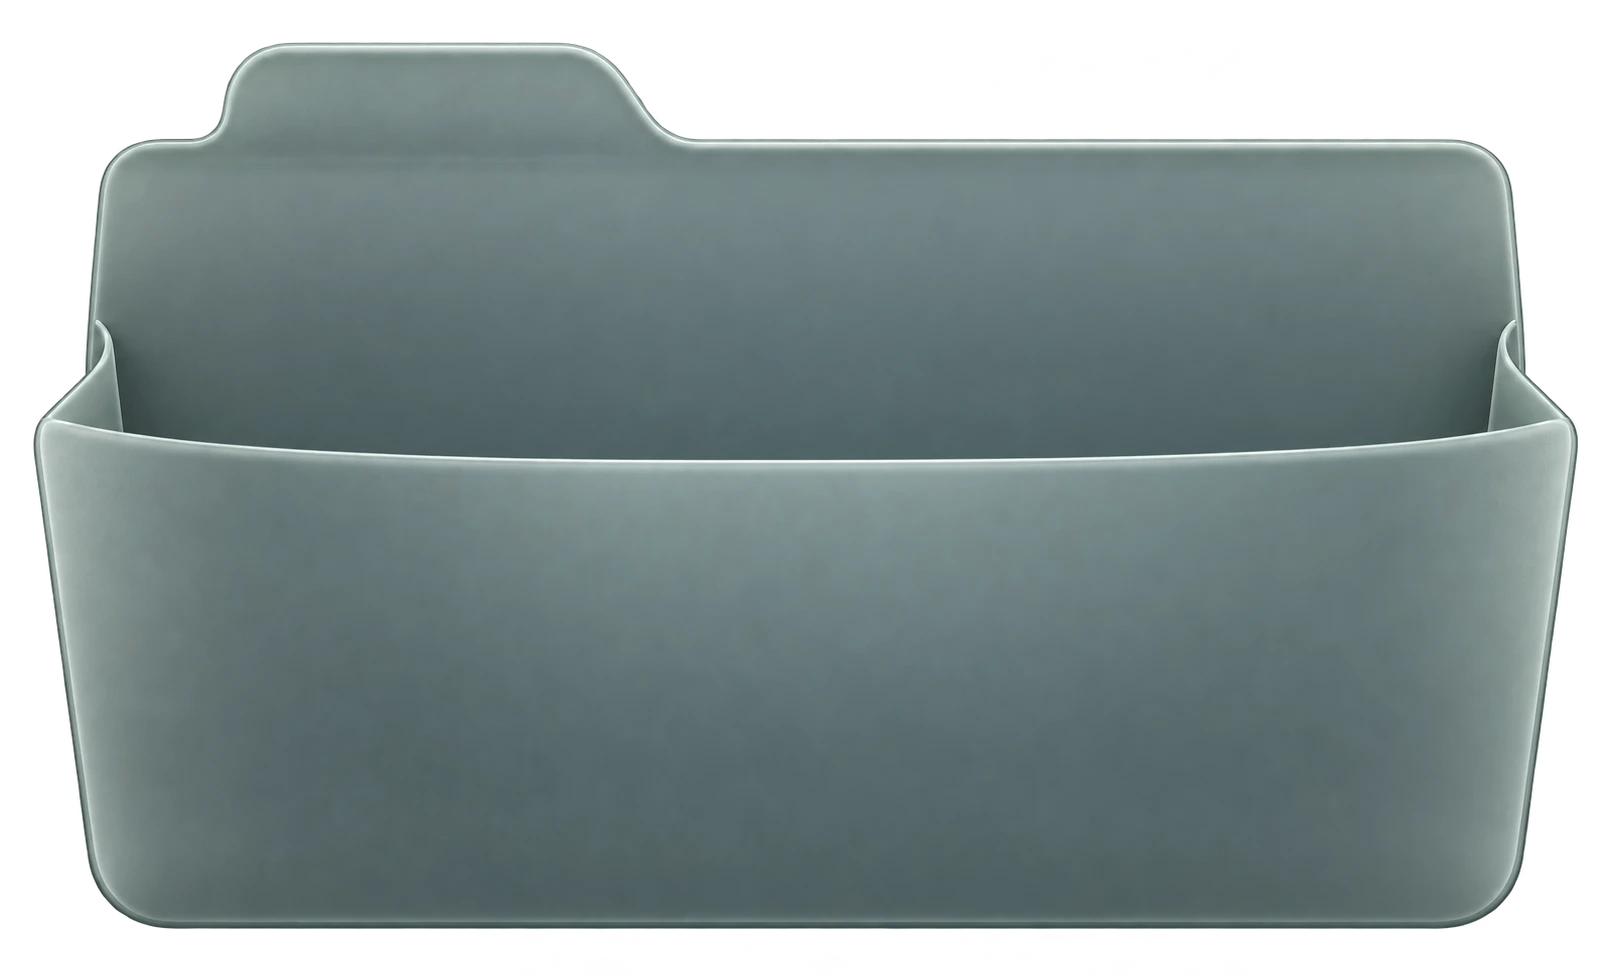
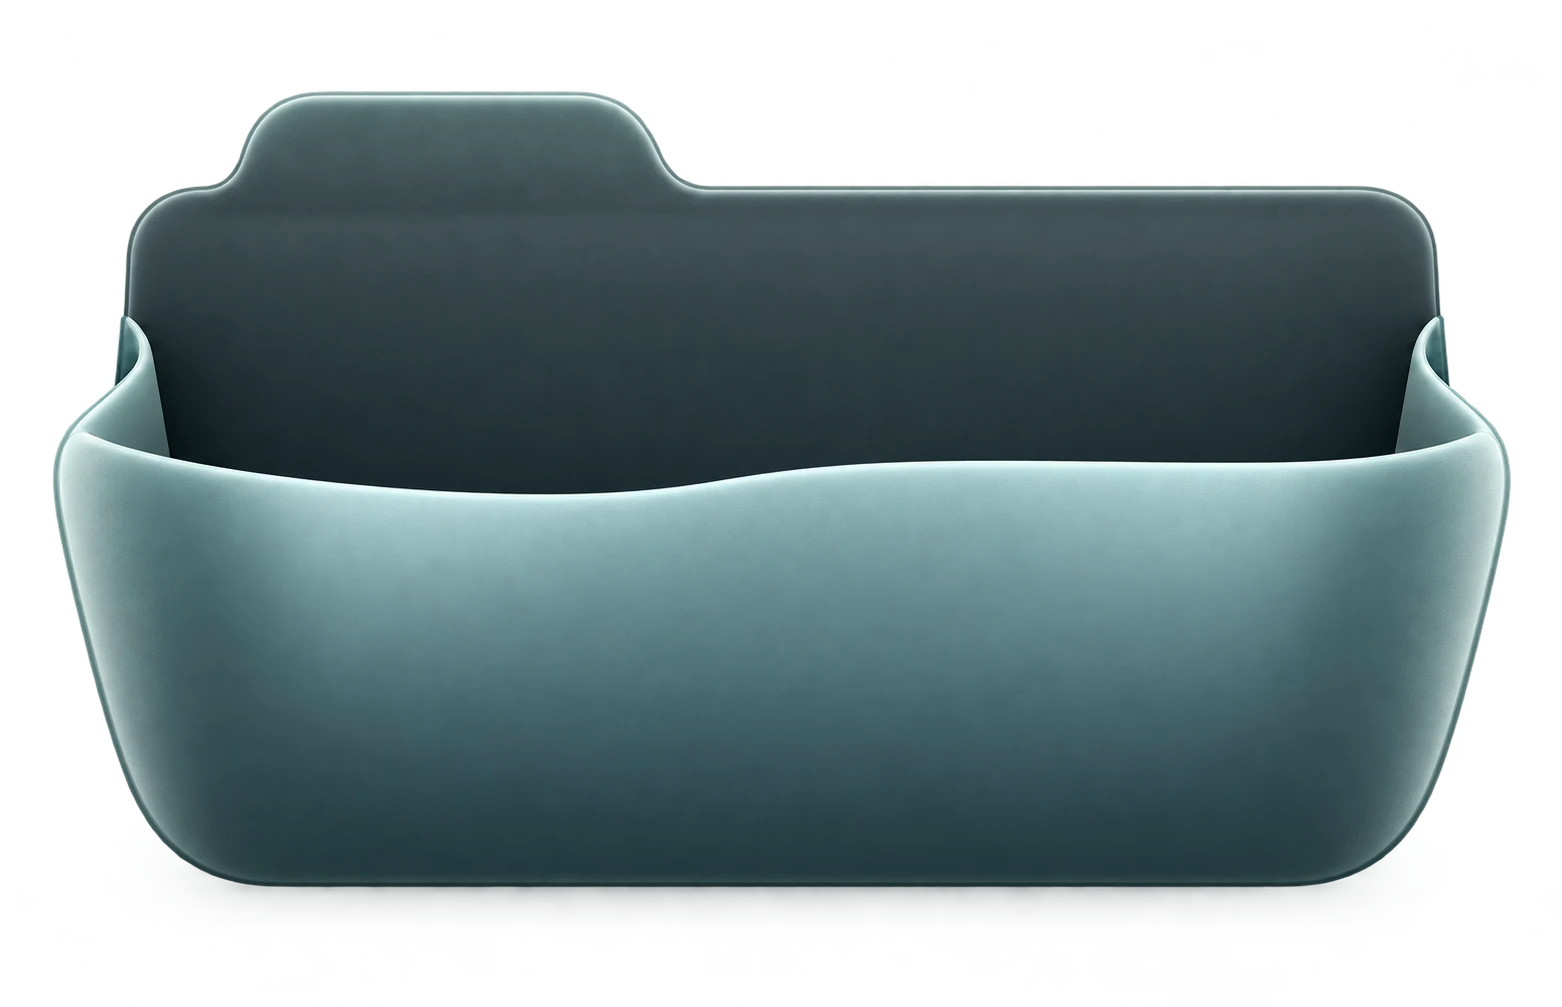
Refine collection covers with dimensional folder layout

diff --git a/src/features/collections/ui/collections-page.tsx b/src/features/collections/ui/collections-page.tsx
@@ -7,13 +7,11 @@ import {
   BookOpenIcon,
   CheckIcon,
   FolderPlusIcon,
-  LibraryIcon,
   MoreVerticalIcon,
   PencilIcon,
   PinIcon,
   PinOffIcon,
   PlusIcon,
-  RotateCwFadingClockIcon,
   SearchIcon,
   Trash2Icon,
 } from "lucide-react";
@@ -52,6 +50,13 @@ const colors = [
   { name: "Peach", value: "#f0c6ac" },
   { name: "Rose", value: "#cfaaae" },
 ];
+
+const folderHueByColor: Record<string, string> = {
+  "#d9cae9": "94deg",
+  "#d6dfbd": "-95deg",
+  "#f0c6ac": "-155deg",
+  "#cfaaae": "125deg",
+};
 
 function lastAddedLabel(lastBookAddedAt: string | undefined, now: number) {
   if (!lastBookAddedAt) return "No books added";
@@ -336,7 +341,7 @@ export function CollectionsPage() {
               </Button>
             )}
           </div>
-          <div className="collection-cards max-[767px]:gap-4 grid [grid-template-columns:repeat(auto-fill,_minmax(min(100%,_320px),_384px))] gap-[20px]">
+          <div className="collection-cards grid justify-center gap-5 [grid-template-columns:repeat(auto-fill,minmax(min(100%,270px),340px))] max-[767px]:gap-4">
             {[...collections]
               .sort(
                 (first, second) => Number(second.pinned) - Number(first.pinned),
@@ -347,10 +352,13 @@ export function CollectionsPage() {
                   <Card
                     index={index}
                     key={collection.id}
-                    className="collection-card group/collection relative cursor-pointer gap-0 overflow-hidden rounded-3xl border border-transparent bg-transparent p-4 shadow-none ring-0 transition-colors duration-180 hover:bg-[color-mix(in_srgb,var(--collection-color)_5%,transparent)] hover:text-foreground [&:has(.collection-card-title:focus-visible)]:outline-2 [&:has(.collection-card-title:focus-visible)]:outline-ring [&:has(.collection-card-title:focus-visible)]:outline-offset-2"
+                    className="collection-card group/collection relative min-h-[312px] cursor-pointer gap-0 overflow-hidden rounded-[30px] border border-transparent bg-transparent px-5 pb-6 pt-7 shadow-none ring-0 transition-[background-color,transform] duration-200 hover:-translate-y-1 hover:bg-[color-mix(in_srgb,var(--collection-color)_7%,var(--card))] hover:text-foreground [&:has(.collection-card-title:focus-visible)]:outline-2 [&:has(.collection-card-title:focus-visible)]:outline-ring [&:has(.collection-card-title:focus-visible)]:outline-offset-2"
                     style={
                       {
                         "--collection-color": collection.color,
+                        "--folder-rotation":
+                          folderHueByColor[collection.color.toLowerCase()] ??
+                          "0deg",
                       } as CSSProperties
                     }
                     onClick={(event) => {
@@ -367,14 +375,14 @@ export function CollectionsPage() {
                   >
                     <div className="collection-open hover:bg-transparent flex flex-col justify-start w-full h-auto p-[0] border-0 rounded-[0] gap-[0] whitespace-normal overflow-visible bg-transparent [color:inherit]">
                       <span
-                        className="collection-preview relative block w-full [aspect-ratio:355_/_209] overflow-hidden rounded-[24px] [background:color-mix(in_srgb,_var(--collection-color)_18%,_var(--card))]"
+                        className="collection-preview relative block h-[204px] w-full overflow-hidden"
                         aria-hidden="true"
                       >
-                        <span className="pointer-events-none absolute inset-x-[4%] top-[5%] z-0 aspect-[1600/979] bg-[url('/collection-folder.webp')] bg-contain bg-no-repeat [clip-path:inset(0_0_54%_0)]" />
-                        <span className="collection-cover-stack absolute inset-x-[13%] top-[12%] z-10 flex items-start justify-center">
+                        <span className="pointer-events-none absolute inset-x-[3%] top-[15%] z-0 aspect-[1562/1007] bg-[url('/collection-folder.webp')] bg-contain bg-no-repeat [clip-path:inset(0_0_52%_0)] [filter:hue-rotate(var(--folder-rotation))]" />
+                        <span className="collection-cover-stack absolute inset-x-[14%] top-[12%] z-10 flex items-start justify-center">
                           {previewBooks.slice(0, 3).map((book, coverIndex) => (
                             <span
-                              className={`collection-preview-cover block w-[37%] shrink-0 origin-bottom [&_.book-cover]:rounded-[4px_7px_7px_4px] [&_.book-cover]:[box-shadow:inset_3px_0_0_rgb(0_0_0_/_10%),_3px_6px_10px_rgb(0_0_0_/_12%)] [&_.cover-type]:p-[7px_5px_0] [&_.cover-type]:text-[9px] [&_.cover-credit]:text-[4px]${coverIndex === 0 ? " translate-y-[13px] -rotate-8" : coverIndex === 1 ? " relative z-[1] -ml-[8%]" : " -ml-[8%] translate-y-[13px] rotate-8"}`}
+                              className={`collection-preview-cover block w-[37%] shrink-0 origin-bottom [&_.book-cover]:rounded-[4px_7px_7px_4px] [&_.book-cover]:[box-shadow:inset_3px_0_0_rgb(0_0_0_/_10%),_3px_6px_10px_rgb(0_0_0_/_12%)] [&_.cover-type]:p-[7px_5px_0] [&_.cover-type]:text-[9px] [&_.cover-credit]:text-[4px]${coverIndex === 0 ? " translate-y-[11px] -rotate-10" : coverIndex === 1 ? " relative z-[1] -ml-[7%] -translate-y-[4px]" : " -ml-[7%] translate-y-[11px] rotate-10"}`}
                               key={book.id}
                             >
                               <BookCover book={book} />
@@ -382,17 +390,17 @@ export function CollectionsPage() {
                           ))}
                         </span>
                         {previewBooks.length === 0 && (
-                          <BookOpenIcon className="collection-preview-empty absolute left-1/2 top-[28%] z-10 size-9 -translate-x-1/2 text-muted-foreground" />
+                          <BookOpenIcon className="collection-preview-empty absolute left-1/2 top-[30%] z-10 size-9 -translate-x-1/2 text-muted-foreground" />
                         )}
-                        <span className="pointer-events-none absolute inset-x-[4%] top-[5%] z-20 aspect-[1600/979] bg-[url('/collection-folder.webp')] bg-contain bg-no-repeat [clip-path:inset(43%_0_0_0)]" />
+                        <span className="pointer-events-none absolute inset-x-[3%] top-[15%] z-20 aspect-[1562/1007] bg-[url('/collection-folder.webp')] bg-contain bg-no-repeat [clip-path:inset(44%_0_0_0)] [filter:hue-rotate(var(--folder-rotation))]" />
                       </span>
                     </div>
-                    <div className="collection-card-footer flex items-center gap-[12px] pt-[16px]">
-                      <div className="collection-card-info flex-1 min-w-0 text-left">
-                        <div className="collection-title-row flex items-center gap-[6px] min-w-0">
+                    <div className="collection-card-footer relative flex items-start justify-center pt-1">
+                      <div className="collection-card-info min-w-0 max-w-full text-center">
+                        <div className="collection-title-row flex min-w-0 items-center justify-center gap-1.5">
                           <Button
                             variant="ghost"
-                            className="collection-card-title static block h-auto w-auto min-w-0 rounded-none border-0 bg-transparent p-0 text-left text-base leading-6 font-normal tracking-normal whitespace-normal text-inherit [overflow-wrap:anywhere]"
+                            className="collection-card-title static block h-auto w-auto min-w-0 rounded-none border-0 bg-transparent p-0 text-center text-lg leading-6 font-medium tracking-tight whitespace-normal text-inherit [overflow-wrap:anywhere]"
                             onClick={() =>
                               router.push(
                                 `/collections?collection=${encodeURIComponent(collection.id)}`,
@@ -416,7 +424,7 @@ export function CollectionsPage() {
                         </div>
                         <Button
                           variant="ghost"
-                          className="collection-card-meta h-auto! w-full! justify-start rounded-none! border-0! bg-transparent! p-0! text-left scale-100! hover:bg-transparent! active:bg-transparent! group-hover/collection:text-muted-foreground dark:text-[#e7e5e2] dark:group-hover/collection:text-[#e7e5e2] flex flex-nowrap items-center min-h-[24px] mt-[4px] gap-[4px] text-[12px] font-normal text-muted-foreground"
+                          className="collection-card-meta h-auto! w-full! justify-center rounded-none! border-0! bg-transparent! p-0! text-center scale-100! hover:bg-transparent! active:bg-transparent! flex flex-wrap items-center min-h-[24px] mt-1 gap-1 text-xs font-normal text-muted-foreground"
                           aria-label={`Open books in ${collection.name}`}
                           onClick={() =>
                             router.push(
@@ -425,25 +433,25 @@ export function CollectionsPage() {
                           }
                         >
                           <span
-                            className="collection-book-count [&_svg]:size-4 [&_svg]:stroke-1 shrink-0 inline-flex items-center gap-[4px] p-[2px_8px] h-[22px] rounded-full [background:color-mix(in_srgb,_var(--foreground)_8%,_transparent)] [color:inherit]"
+                            className="collection-book-count inline-flex shrink-0 items-center"
                             aria-label={`${previewBooks.length} books`}
                           >
-                            <LibraryIcon aria-hidden="true" />
-                            {previewBooks.length}
+                            {previewBooks.length}{" "}
+                            {previewBooks.length === 1 ? "book" : "books"}
                           </span>
                           <span
                             aria-hidden="true"
-                            className="collection-meta-dot shrink-0 inline-flex w-[24px] justify-center"
+                            className="collection-meta-dot inline-flex shrink-0 w-3 justify-center"
                           >
                             ·
                           </span>
                           <span
-                            className="collection-card-updated [&_svg]:size-4 [&_svg]:stroke-1 inline-flex items-center gap-[6px] min-w-0 whitespace-nowrap [&_svg]:shrink-0"
+                            className="collection-card-updated inline-flex min-w-0 items-center whitespace-nowrap"
                             aria-label={`Last book added: ${lastAddedLabel(collection.lastBookAddedAt, now)}`}
                           >
-                            <RotateCwFadingClockIcon aria-hidden="true" />
                             {collection.lastBookAddedAt ? (
                               <time dateTime={collection.lastBookAddedAt}>
+                                Added{" "}
                                 {lastAddedLabel(
                                   collection.lastBookAddedAt,
                                   now,
@@ -461,7 +469,7 @@ export function CollectionsPage() {
                             <Button
                               variant="ghost"
                               size="icon-sm"
-                              className="collection-menu relative z-[2] size-7! -mr-1 shrink-0 rounded-full bg-transparent p-1 text-inherit transition-colors duration-150 hover:bg-[color-mix(in_srgb,var(--foreground)_10%,transparent)] focus-visible:bg-[color-mix(in_srgb,var(--foreground)_10%,transparent)] aria-expanded:bg-[color-mix(in_srgb,var(--foreground)_10%,transparent)] [&_svg]:w-[20px] [&_svg]:h-[20px]"
+                              className="collection-menu absolute bottom-0 right-0 z-[2] size-7! shrink-0 rounded-full bg-transparent p-1 text-muted-foreground transition-colors duration-150 hover:bg-[color-mix(in_srgb,var(--foreground)_10%,transparent)] hover:text-foreground focus-visible:bg-[color-mix(in_srgb,var(--foreground)_10%,transparent)] aria-expanded:bg-[color-mix(in_srgb,var(--foreground)_10%,transparent)] [&_svg]:size-5"
                             />
                           }
                           aria-label={`Options for ${collection.name}`}

diff --git a/design-qa.md b/design-qa.md
@@ -1,26 +1,20 @@
 # Collection cover design QA
 
-- Source visual: `C:/Users/joshd/Desktop/HVUE-CjWAAA_1dr.jpg` (2400 × 1800 px).
-- Rendered implementation: `docs/design-preview/collections-folder-final.jpg` (607 × 717 px browser viewport, dark theme, collection list with the first card hovered).
-- Focused side-by-side comparison: `docs/design-preview/collections-folder-final-comparison.png`. The source folder card was cropped to 650 × 640 px and the rendered card to 375 × 325 px; both were normalized to 430 px wide for comparison. The full source and browser captures were also inspected.
+- Source: `C:/Users/joshd/Desktop/HVUE-CjWAAA_1dr.jpg` (2400 × 1800 px).
+- Rendered desktop: `docs/design-preview/collections-folder-v2-desktop.jpg` (1440 × 900 px, dark theme).
+- Rendered narrow view: `docs/design-preview/collections-folder-v2-narrow.jpg` (607 × 717 px, dark theme).
+- Focused comparison: `docs/design-preview/collections-folder-v2-comparison.png`. The source's first folder and the rendered first collection were cropped and scaled to the same width. The full source and both full app views were inspected.
 
 **Findings**
 
-No actionable P0–P2 differences remain for the requested cover treatment. The folder front has the reference's soft dimensional edge, and the books rise from behind it at a similar proportion. Papyrbound keeps its dark theme, collection color backplate, live book art, and existing metadata intentionally.
+No P0–P2 fidelity issues remain. The old short, rounded cover box is gone. A taller, softer folder with a curved opening and live book covers now floats above a centered name and metadata, matching the reference's visual hierarchy. Muted per-collection colors distinguish the folders. Cards are centered in the grid, with a subtle colored surface and lift on hover.
 
-**Required fidelity surfaces**
-
-- Typography: Existing Papyrbound type hierarchy and collection title are unchanged; book titles remain legible above the pocket.
-- Layout and spacing: The folder fits the original cover slot, retains the 24 px rounding, and leaves the title and controls below unobstructed.
-- Colors and tokens: The folder uses neutral sage-gray material; each collection's chosen color remains visible in its backplate. Dark-theme contrast is intact.
-- Image quality: A transparent, generated folder asset is rendered as a 93 KB WebP. No stray pixels are visible at the rendered size.
-- Copy and content: Collection names, counts, and last-book-added metadata are unchanged. The covers still come from each collection's books.
+The source is a light-theme knowledge-base mockup with paper sheets and a selected gray panel. Papyrbound keeps its own dark theme, real book covers, pin/menu controls, and book-added date; the panel appears on hover. The folder's front material remains slightly smoother and simpler than the source artwork (P3 polish).
 
 **Interaction and validation**
 
-- Clicking the first folder cover opened `/collections?collection=quiet-afternoons` and showed its three books.
-- The hovered card and the next collection render without clipping or overlap at the 607 px viewport.
-- Browser console: no errors. TypeScript, ESLint, Prettier, and `git diff --check` passed.
-- Wider desktop and light-theme views were not captured in this pass; the component retains its existing responsive grid and theme tokens.
+- Clicking the folder cover and the metadata both opened `/collections?collection=quiet-afternoons`, showing its three books.
+- The desktop three-column and narrow one-column layouts have no clipping or overlap. Light-theme contrast was also inspected.
+- Browser console: no errors. TypeScript, Prettier, ESLint, and production build passed.
 
 final result: passed
